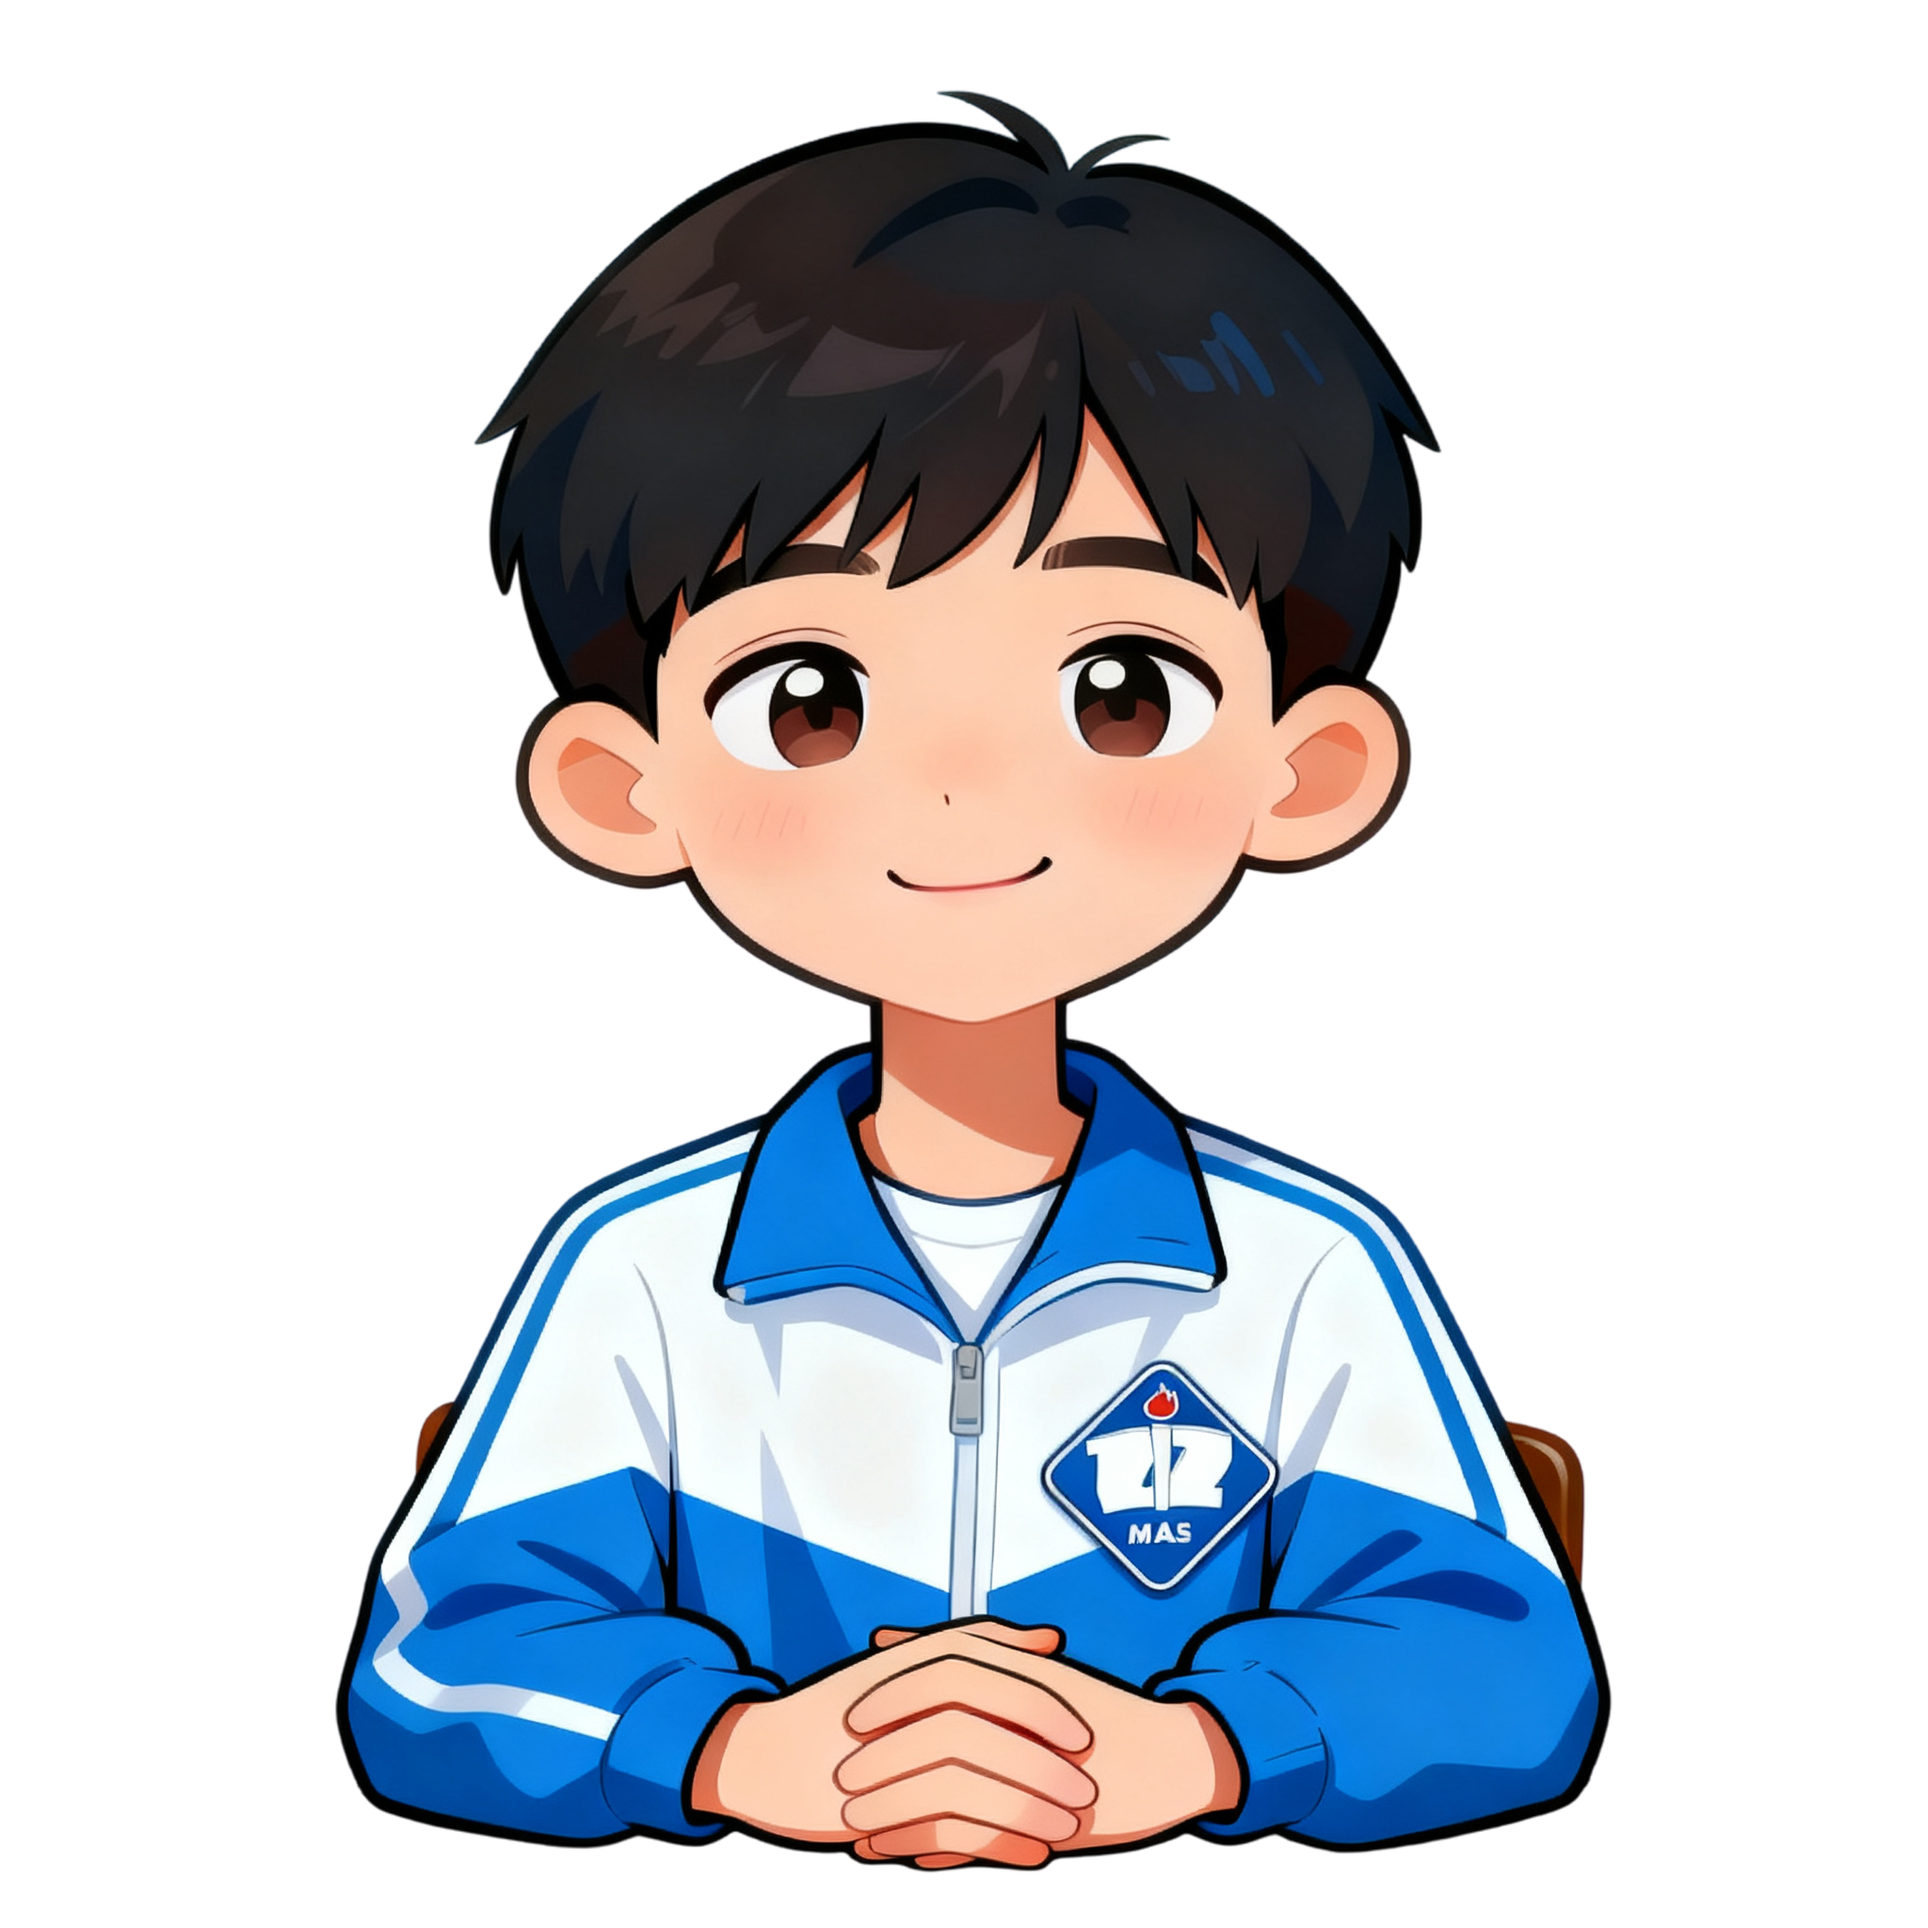
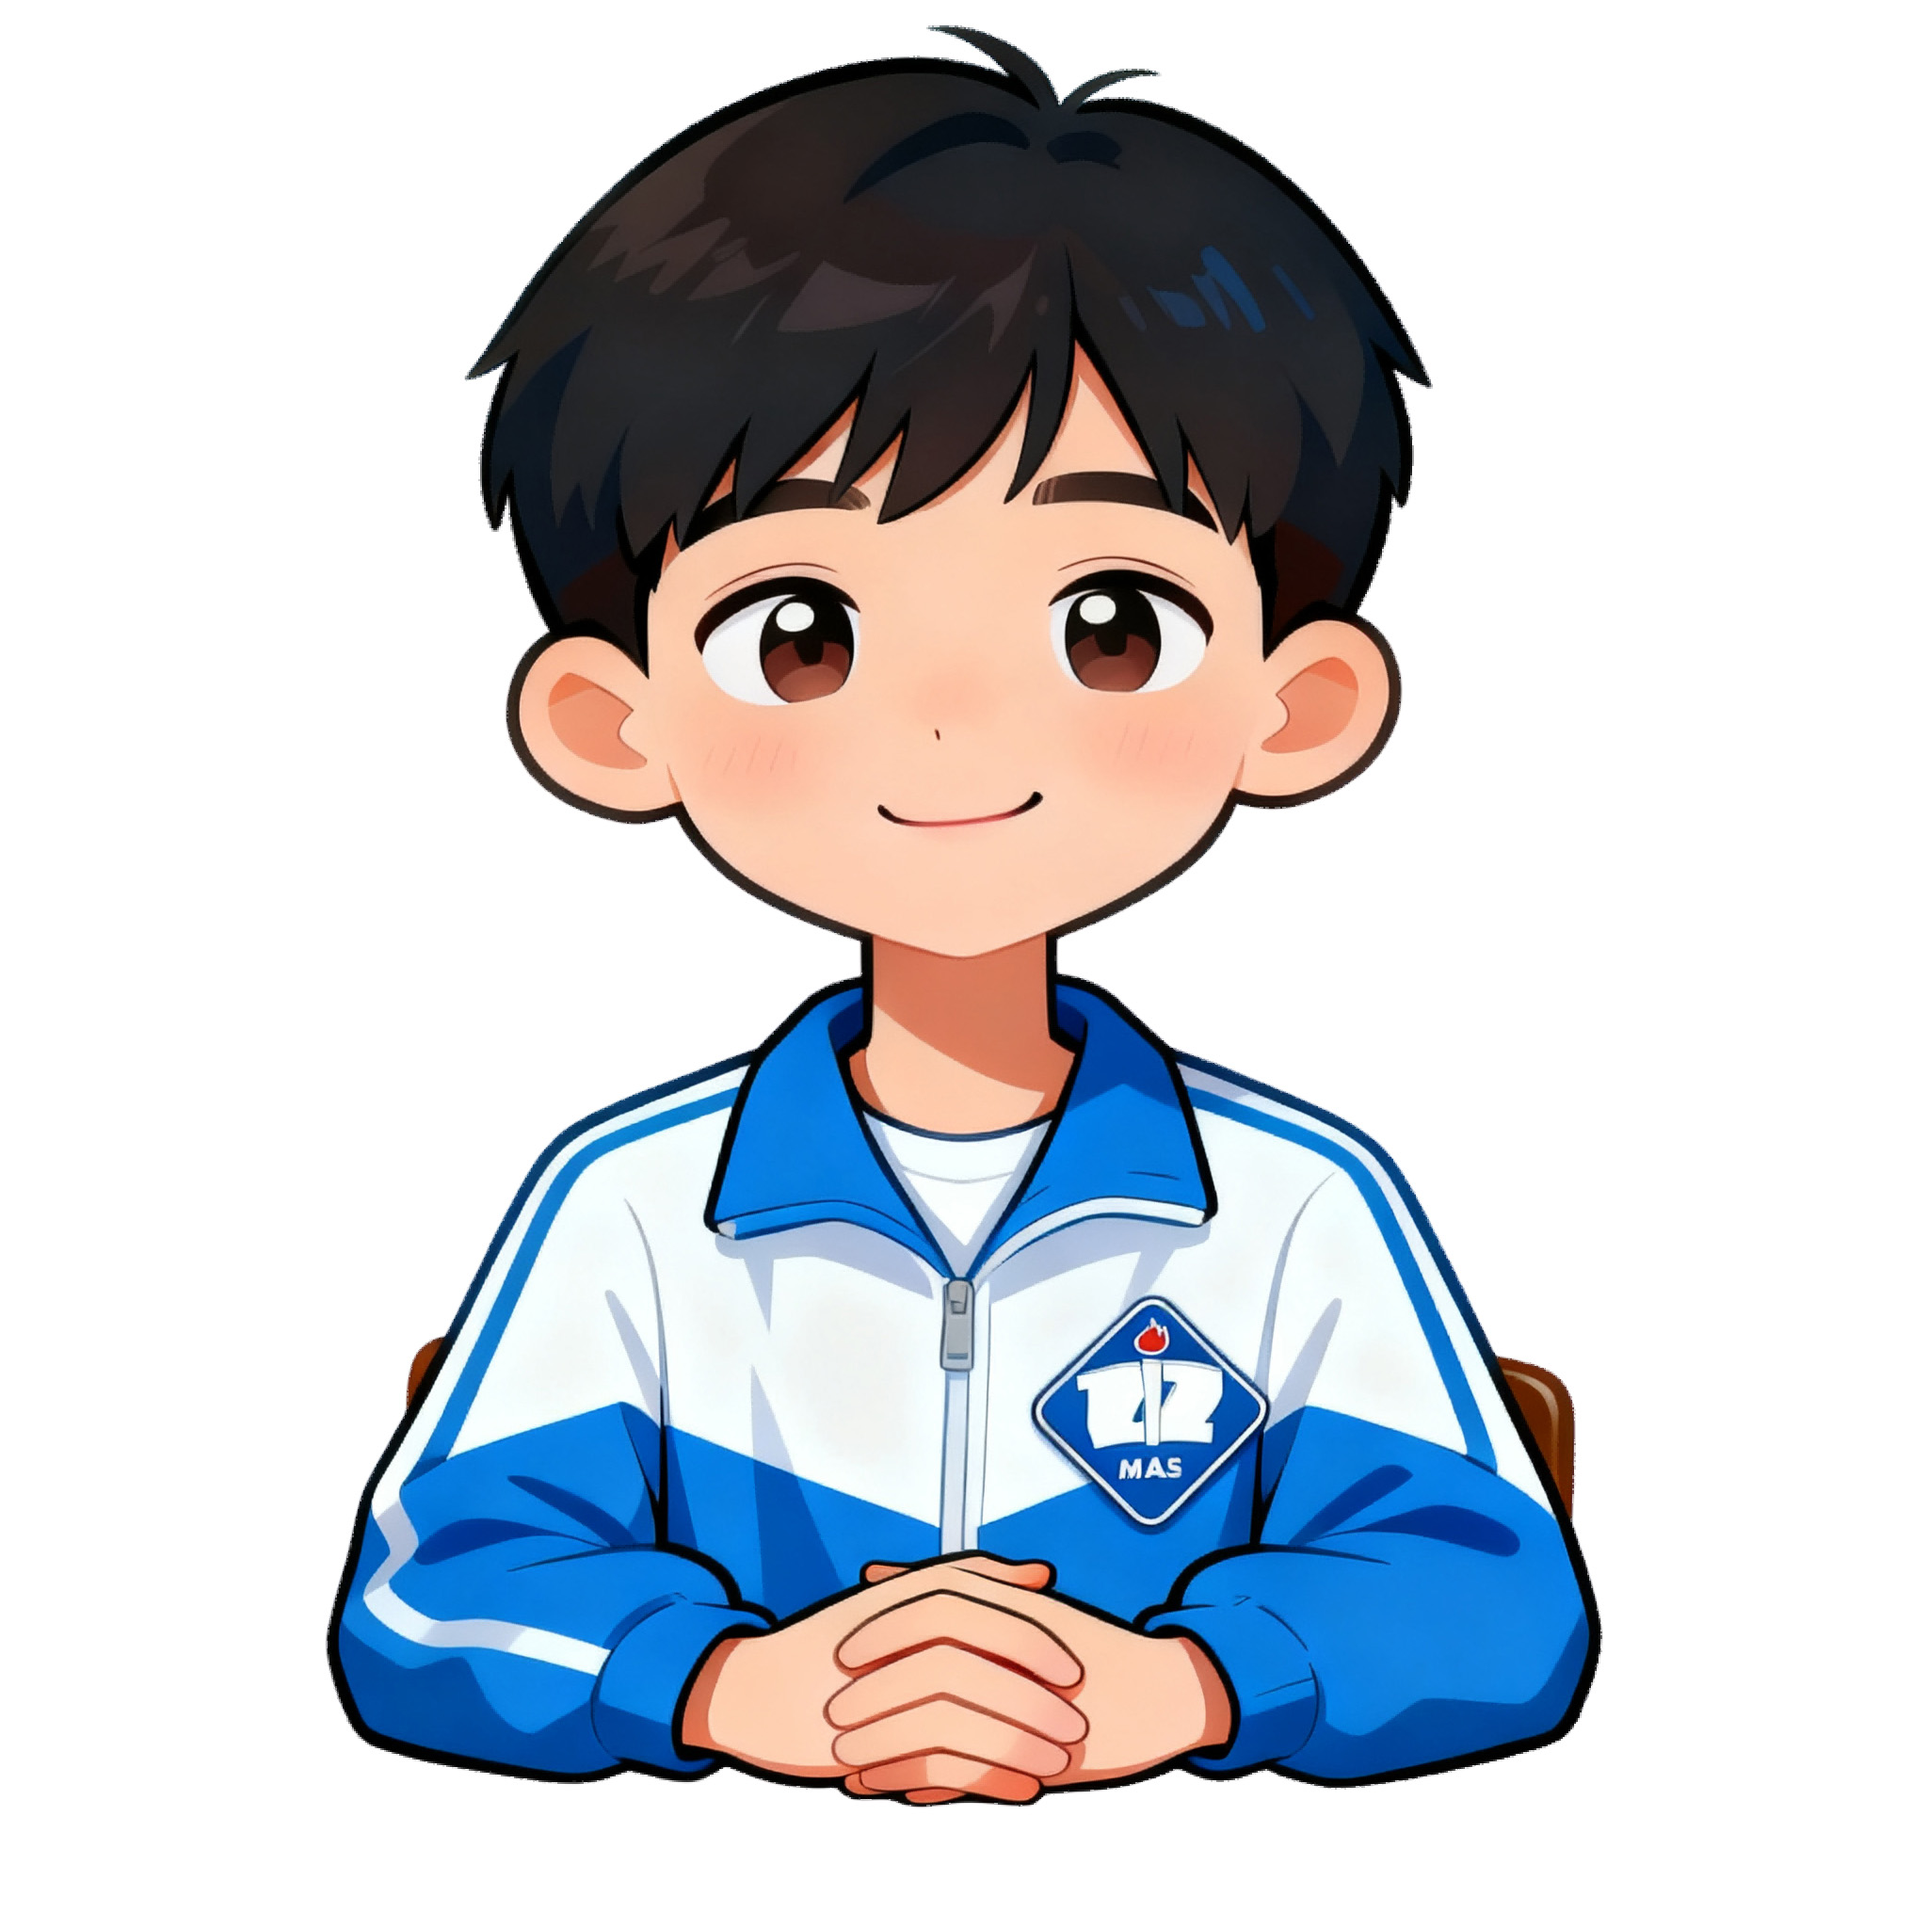
v1

Changed region(s): [[0.1562, 0.0, 0.8438, 0.9688], [0.3438, 0.1562, 0.375, 0.1875]]

diff --git a/server.js b/server.js
@@ -15,7 +15,8 @@ app.use(express.static(path.join(__dirname, 'public')));
 // 3. 后端 API 接口 (隐藏 Key 的核心逻辑)
 app.post('/api/chat', async (req, res) => {
     try {
-        const API_KEY = process.env.DEEPSEEK_KEY; // 从环境变量读取 Key
+        // const API_KEY = process.env.DEEPSEEK_KEY; // 从环境变量读取 Key
+        const API_KEY = "sk-t741Aph1aaXnU9ZUhGV1NjlYbNBGRSuLw23AYgaLGTqmRRz5";
         if (!API_KEY) {
             throw new Error('服务器未配置 API Key');
         }
